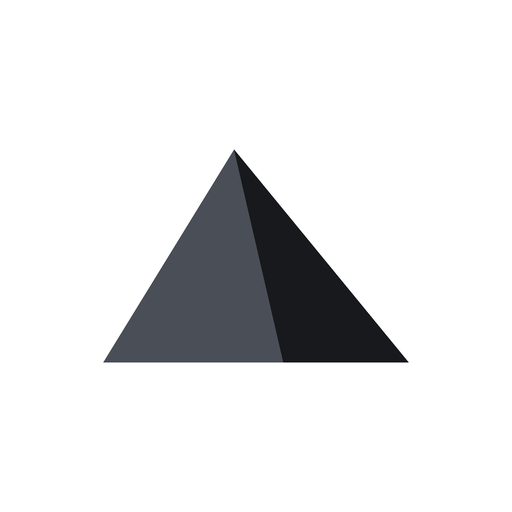
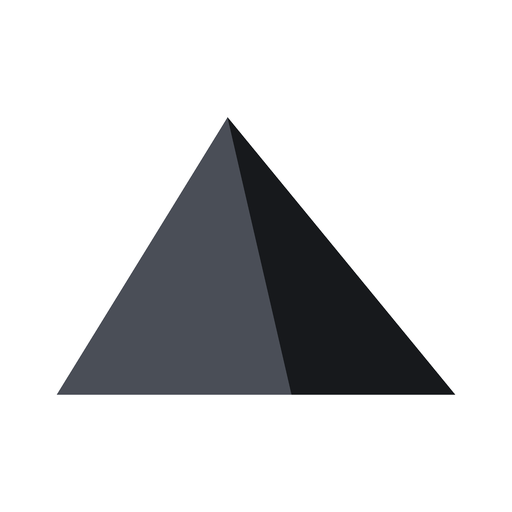
Icône : pyramide nettement plus grande (iOS, Android, Play Store, pages)
Claude-Session: https://claude.ai/code/session_017Vg4hUX43NGpYobFQsRYTv

Changed region(s): [[0.0938, 0.2188, 0.9062, 0.7812]]

diff --git a/android-browser/app/src/main/java/fr/qafila/browser/ui/SettingsScreen.kt b/android-browser/app/src/main/java/fr/qafila/browser/ui/SettingsScreen.kt
@@ -270,7 +270,7 @@ fun AppIconTile(icon: AppIcon, selected: Boolean, size: Dp = 58.dp, locked: Bool
             .clip(RoundedCornerShape(size * 0.21f)).background(bg)) {
             Canvas(Modifier.fillMaxSize()) {
                 val k = this.size.width / 108f
-                val z = 1.32f
+                val z = 1.6f
                 fun p(x: Float, y: Float) = Offset((54f + (x - 54f) * z) * k, (54f + (y - 52.5f) * z) * k)
                 val a = p(50f, 33f); val l = p(26f, 72f); val f = p(59f, 72f); val r = p(82f, 72f)
                 drawPath(Path().apply { moveTo(a.x, a.y); lineTo(l.x, l.y); lineTo(f.x, f.y); close() }, lit)
